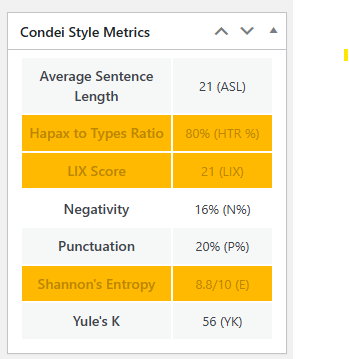
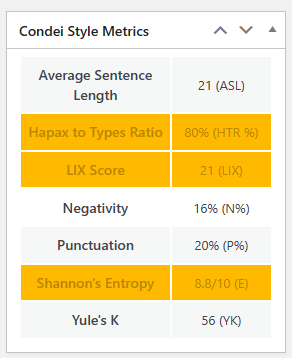
Updated README and screenshots

diff --git a/README.md b/README.md
@@ -31,13 +31,13 @@
 
 <p align="center">
    <img align="center" src="https://github.com/alexboia/ABNET-PostStats/blob/main/screenshots/abnet-post-stats.png?raw=true" style="margin-bottom: 20px; margin-right: 20px;" />
-   <br />
+   
    <img align="center" src="https://github.com/alexboia/ABNET-PostStats/blob/main/screenshots/abnet-content-pillar-post-stats.png?raw=true" style="margin-bottom: 20px; margin-right: 20px;" />
-   <br />
+   
    <img align="center" src="https://github.com/alexboia/ABNET-PostStats/blob/main/screenshots/content-pillars.png?raw=true" style="margin-bottom: 20px; margin-right: 20px;" />
-   <br />
+   
    <img align="center" src="https://github.com/alexboia/ABNET-PostStats/blob/main/screenshots/syle-metrics-post-editor.png?raw=true" style="margin-bottom: 20px; margin-right: 20px;" />
-   <br />
+   
    <img align="center" src="https://github.com/alexboia/ABNET-PostStats/blob/main/screenshots/style-metrics-settings.png?raw=true" style="margin-bottom: 20px; margin-right: 20px;" />
 </p>
 